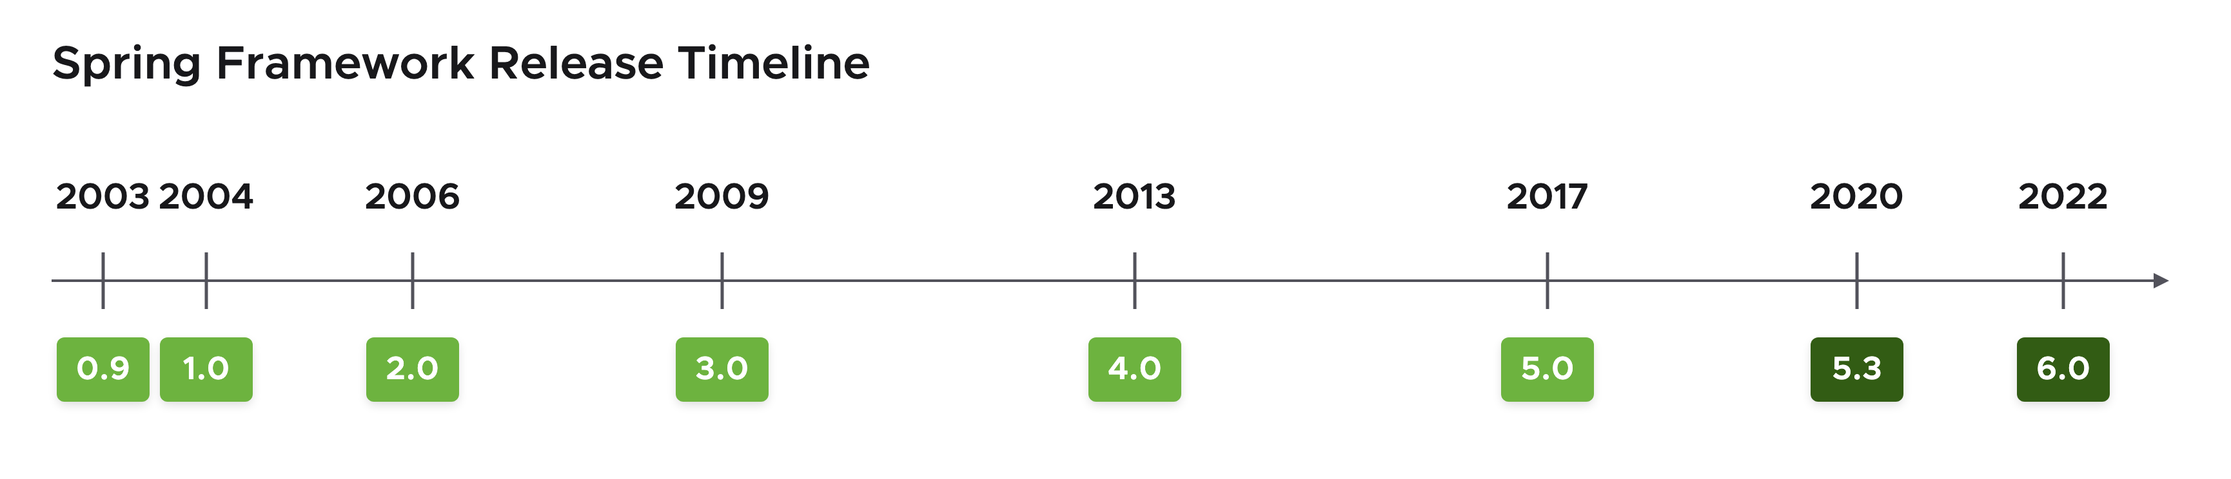
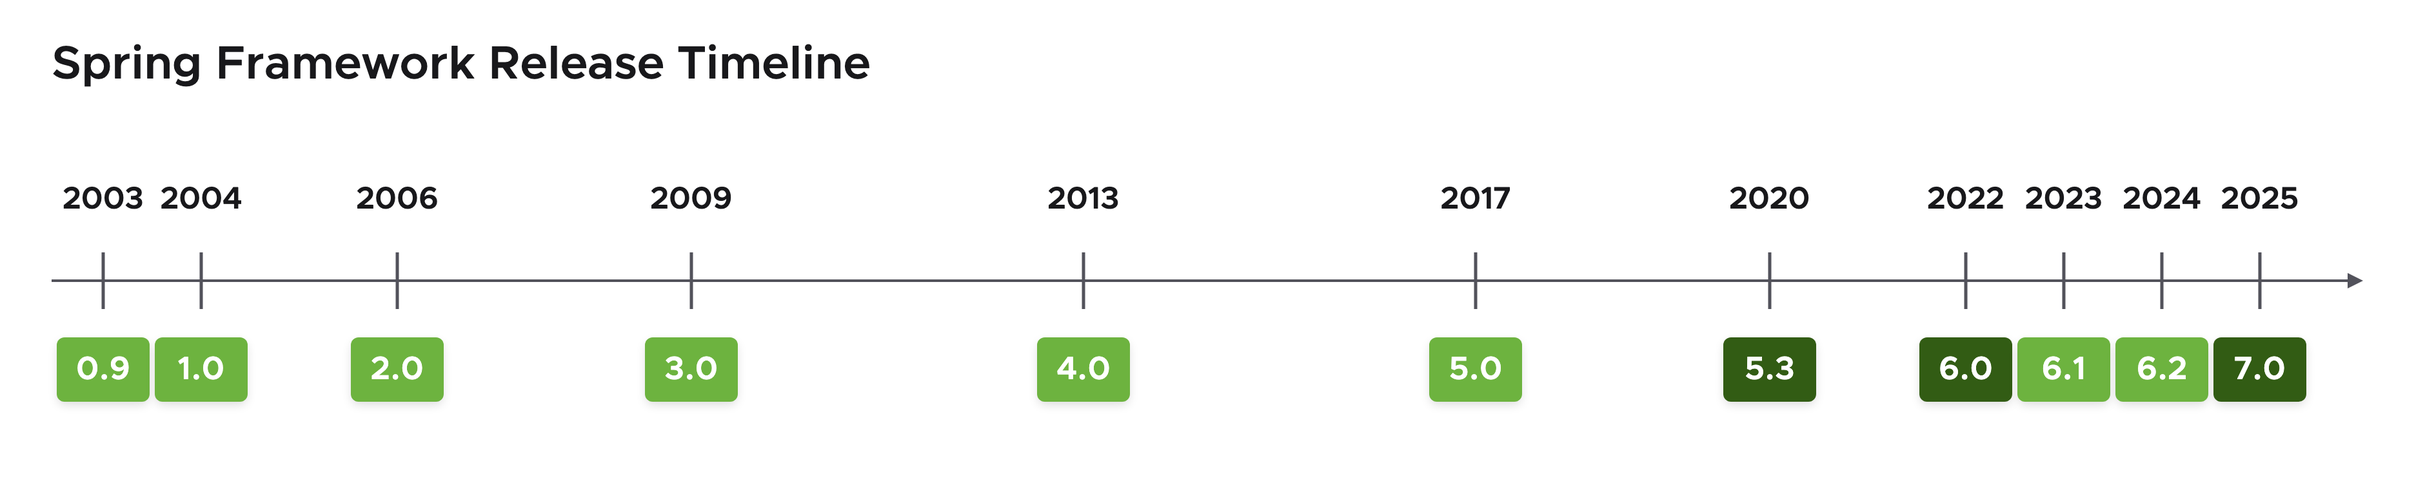
update

diff --git a/metadata/lms/08-testing/02-integration/content.md b/metadata/lms/08-testing/02-integration/content.md
@@ -26,9 +26,9 @@ In production, your application wires together `TransferServiceImpl` and `JpaAcc
 
 Spring ships a small testing framework called the **`TestContext` framework**, whose job is to bootstrap the application context for you.
 
-Without it, you'd be tempted to create the application context yourself inside a `@BeforeEach` method — but that's wasteful, since it means rebuilding the whole context before every single test method. The `TestContext` framework creates the application context for you instead, based on the **`@ContextConfiguration`** annotation, which you use to point at the configuration class (or classes) you want loaded. All of this comes from the `spring-test` module, so it needs to be on your test classpath (packaged as `spring-test.jar`). See the Spring Framework reference for [integration testing](https://docs.spring.io/spring/docs/current/spring-framework-reference/testing.html#integration-testing) and the [TestContext framework](https://docs.spring.io/spring/docs/current/spring-framework-reference/testing.html#testcontext-framework).
+Without it, you'd be tempted to create the application context yourself inside a `@BeforeEach` method — but that's wasteful, since it means rebuilding the whole context before every single test method. The `TestContext` framework creates the application context for you instead, based on the **`@ContextConfiguration`** annotation, which you use to point at the configuration class (or classes) you want loaded. All of this comes from the `spring-test` module, so it needs to be on your test classpath (packaged as `spring-test.jar`). See the Spring Framework reference for <a href="https://docs.spring.io/spring/docs/current/spring-framework-reference/testing.html#integration-testing" target="_blank" rel="noopener noreferrer">integration testing</a> and the <a href="https://docs.spring.io/spring/docs/current/spring-framework-reference/testing.html#testcontext-framework" target="_blank" rel="noopener noreferrer">TestContext framework</a>.
 
-## Hooking Spring into JUnit 5: `@ExtendWith`
+## Hooking Spring into JUnit 5: \@ExtendWith
 
 JUnit 4 had **runners**, but runners came with a real limitation: you couldn't combine more than one at a time, so if two different frameworks each needed their own runner, you were stuck. JUnit 5 replaces that mechanism with **extensions** — and extensions don't have that limitation; you can apply several at once.
 
@@ -54,7 +54,7 @@ public class TransferServiceTests {
 
 `@ExtendWith(SpringExtension.class)` tells JUnit 5 to run the test with Spring support; `@ContextConfiguration` tells Spring which configuration class (or classes) to use to build the application context. Once that context is bootstrapped, `@Autowired` at the field level works exactly as it would in application code — here, injecting the real `TransferService`, which internally delegates down to the repository and, in turn, to whatever `DataSource` the test configuration provides. There's no need for a `@BeforeEach` method to manually construct `TransferService` — the injected bean is ready to test against directly.
 
-## `@SpringJUnitConfig`: one annotation instead of two
+## \@SpringJUnitConfig: one annotation instead of two
 
 Because `@ExtendWith(SpringExtension.class)` and `@ContextConfiguration` are almost always used together, Spring provides a single **composed annotation** that combines both: **`@SpringJUnitConfig`**.
 
@@ -107,7 +107,7 @@ public class JdbcAccountRepoTest {
 
 The inner `TestConfig` class imports all of `SystemTestConfig`'s beans via `@Import`, but also defines its own `DataSource` bean. Since a bean defined this way takes precedence over one already present from the imported configuration, the `DataSource` gets overridden just for this particular test class — without affecting `SystemTestConfig` itself, or any other test that uses it.
 
-## Application context caching, and `@DirtiesContext`
+## Application context caching, and \@DirtiesContext
 
 One of the real benefits of `@SpringJUnitConfig` (or the extension plus `@ContextConfiguration` combination underneath it) is that the application context it creates gets **cached**. That means the context — and the beans injected from it — isn't rebuilt before every test method; injection effectively happens once, and the same cached context and bean instances are reused across every test method in the class. Given that most Spring beans are meant to be stateless, immutable singletons, this is normally exactly what you want: there's no need for a fresh context per test.
 
@@ -124,7 +124,7 @@ public void testTransferLimitExceeded() {
 
 Annotating a test method this way forces the cached context to be closed and destroyed once that test finishes, and the next test that needs a context gets a freshly built one instead of the cached one. Be careful reaching for this, though — creating a new application context takes real time, and using `@DirtiesContext` more than necessary will slow your test suite down.
 
-## Test-only properties with `@TestPropertySource`
+## Test-only properties with \@TestPropertySource
 
 Just as `@PropertySource` lets your application load property files into the environment, `@TestPropertySource` lets a test do the same thing — either by supplying key/value pairs directly, or by pointing at a properties file. If you don't specify a location, it defaults to looking for `[classname].properties`:
 

diff --git a/metadata/lms/05-annotations-component-scanning/01-configuration/content.md b/metadata/lms/05-annotations-component-scanning/01-configuration/content.md
@@ -28,7 +28,7 @@ The term "annotation-based configuration" can be a little misleading, since the 
 
 Annotating a class with `@Component` only works if Spring actually goes looking for it. That's the job of **component scanning**: on your configuration class, `@ComponentScan` tells Spring to scan a base package — and all of its sub-packages — for any class annotated with `@Component` (or a related stereotype annotation, covered in the "Stereotype and Meta Annotations" lesson). Every class it finds gets initialized and added to the application context automatically.
 
-## Dependency injection with `@Autowired`
+## Dependency injection with \@Autowired
 
 With Java configuration, dependency injection happens through method parameters on `@Bean` methods. With annotations, the equivalent tool is `@Autowired`, which works at three levels: constructor, method, and field.
 
@@ -59,7 +59,7 @@ In practice, you'll likely use both. It helps to know what each one actually giv
 
 The recommendation: prefer constructor injection, since it makes required dependencies explicit and immutable. But don't fight the design — if you're extending a class built around setter injection, use setter injection. Above all, be consistent across your project team.
 
-## Resolving ambiguity with `@Qualifier`
+## Resolving ambiguity with \@Qualifier
 
 Autowiring by type runs into trouble the moment two beans implement the same interface. Take a `TransferService` that depends on `AccountRepository`, where both a `JpaAccountRepository` and a `JdbcAccountRepository` are annotated `@Component` and present in the context. Spring can't tell which one you want — and at startup you'll get a `NoSuchBeanDefinitionException`, somewhat confusingly, since there isn't zero matching beans, there are two. The message will say Spring expected a single bean but found two.
 
@@ -99,11 +99,11 @@ If you don't explicitly name a component, Spring auto-generates one: the class n
 
 The broader recommendation, again, is to avoid needing named disambiguation in the first place — usually it's rare to have two beans of the same type in an `ApplicationContext`, and profiles are usually the better way to solve that problem than leaning on qualifiers everywhere.
 
-## Injecting configuration values with `@Value`
+## Injecting configuration values with \@Value
 
 Beyond wiring beans together, `@Autowired` combined with `@Value` lets you pull values out of the environment — properties, environment variables, and so on — instead of injecting a bean from the context. This works the same way at the constructor, method, or field level, though the field-level option is discouraged for the same reasons as field injection generally.
 
-## Delayed initialization with `@Lazy`
+## Delayed initialization with \@Lazy
 
 By default, every bean is created eagerly, right when the application context starts — deliberately, so misconfiguration surfaces immediately as a fail-fast startup error rather than a mysterious runtime failure later. Occasionally, though, a bean is expensive to initialize, or depends on something that isn't ready yet, and you'd rather defer its creation until the first time it's actually needed. `@Lazy` does exactly that.
 

diff --git a/metadata/lms/10-transactions/02-management/content.md b/metadata/lms/10-transactions/02-management/content.md
@@ -52,7 +52,7 @@ Note that this bean depends on a `DataSource` already being defined elsewhere in
 
 (The JTA equivalent looks similar in shape but does a JNDI lookup to obtain the `DataSource` from an application server, and constructs a `JtaTransactionManager` instead — again, not the focus here.)
 
-## Step 2: `@Transactional`
+## Step 2: \@Transactional
 
 With a transaction manager in the application context, the next step is marking which methods should actually run inside a transaction, using the `@Transactional` annotation:
 
@@ -100,7 +100,7 @@ Once a transaction is under way, Spring binds its transactional context to the *
 - `JdbcTemplate`, used inside an `@Transactional` method, automatically checks the thread-local for a current connection — if one exists, it reuses it and participates in the same transaction, rather than opening a new one. (Hibernate sessions and JTA work the same way for their respective technologies.)
 - You *can* access this manually via `DataSourceUtils.getConnection(dataSource)`, which returns the thread-bound connection if one exists, or falls back to getting one from the `DataSource` otherwise — but you'll rarely need to reach for this yourself, since Spring handles it for you underneath `@Transactional`.
 
-## Combining class-level and method-level `@Transactional`
+## Combining class-level and method-level \@Transactional
 
 `@Transactional` can be placed on an entire class (or interface, since Spring Framework 5), which makes every method in that class transactional and inherits whatever settings are defined at the class level:
 
@@ -135,7 +135,7 @@ public class RewardNetworkImpl implements RewardNetwork {
 
 Here, the class-level default gives every method a 60-second timeout. `updateConfirmation` overrides that specifically to 45 seconds, while `rewardAccountFor` keeps the class-level default of 60.
 
-## A common trap: two different `@Transactional` annotations
+## A common trap: two different \@Transactional annotations
 
 There are actually **two** `@Transactional` annotations available on the classpath: one in `jakarta.transaction` (the standard JTA version — `javax.transaction` on Spring Framework 5.x and earlier) and one in Spring's own package. If you import the standard JTA `@Transactional`, you'll find you can't override properties like propagation, since that version simply doesn't expose them. Always make sure you're importing **Spring's** `@Transactional` — this is called out specifically because it's a genuinely common mistake to import the wrong one, especially in lab exercises.
 

diff --git a/metadata/lms/08-testing/05-lab-demo/content.md b/metadata/lms/08-testing/05-lab-demo/content.md
@@ -11,7 +11,7 @@ This lesson walks through a hands-on lab that puts the "Configure Tests using Sp
 
 In every previous lab, the application context was created programmatically inside a `setUp` method. This lab (project 24) asks a simple question: is there a better way to do it? The answer is the Spring TestContext Framework already covered earlier in this module, now combined with profiles for a more dynamic test configuration. The lab is organized as a series of numbered to-dos, and this lesson follows that same order.
 
-## To-do 1: Replacing manual setup with `@SpringJUnitConfig`
+## To-do 1: Replacing manual setup with \@SpringJUnitConfig
 
 The starting test class has a `@BeforeEach` method that builds the application context and grabs a reference to the `RewardNetwork` bean, plus an `@AfterEach` method that closes the context afterward. The first to-do replaces all of that:
 
@@ -24,7 +24,7 @@ Running the test at this point is expected to fail, and it does: a red bar, caus
 
 The reason is straightforward: the application context is now being created automatically, but nothing is injecting `rewardNetwork` into the test. The fix is to annotate the field with `@Autowired`. Once that's in place and the test reruns, it passes — the context is created, `RewardNetwork` is retrieved from it, and it's made available inside the test automatically.
 
-## To-do 2: Annotating stub repositories with `@Repository`
+## To-do 2: Annotating stub repositories with \@Repository
 
 The project has stub repository classes (used as fakes) living in `rewards.internal`. This to-do annotates all three of them — `StubAccountRepository`, `StubRestaurantRepository`, and `StubRewardRepository` — with `@Repository`, without assigning any profile yet, simply to make them Spring-managed beans that are part of the application context.
 
@@ -39,7 +39,7 @@ expected single matching bean but found 2: stubAccountRepository, jdbcAccountRep
 
 Component scanning is now picking up *both* the existing JDBC repository implementations and the newly-annotated stub implementations. Both get registered in the application context, and when something needs an `AccountRepository` injected, Spring has no way to know which of the two beans to choose — an ambiguity error.
 
-## To-do 3: Disambiguating with `@Profile`
+## To-do 3: Disambiguating with \@Profile
 
 The fix is to put the JDBC and stub implementations into two different profiles, so only one set is active at a time:
 

diff --git a/metadata/lms/08-testing/03-profiles/content.md b/metadata/lms/08-testing/03-profiles/content.md
@@ -12,7 +12,7 @@ By the end of this lesson, you should be able to:
 
 Earlier in this course you saw how Spring profiles let you group beans so they can be enabled or disabled at runtime — useful for things like swapping a real database for a stub, depending on whether you're running in production or in a test. Normally you'd activate a profile by passing a system property at startup, but that technique doesn't translate well into a test environment, where there's no command line to pass properties to. This lesson introduces the annotation-based way of activating profiles specifically for tests, and pairs it with a second annotation for loading SQL scripts into a test database.
 
-## Activating profiles for a test: `@ActiveProfiles`
+## Activating profiles for a test: \@ActiveProfiles
 
 `@ActiveProfiles` is a new annotation, used in combination with `@SpringJUnitConfig` (or the underlying Spring extension you saw in the earlier testing lessons). It lets you define one or more profiles that should be active for a given test class.
 
@@ -64,7 +64,7 @@ public void successfulTransfer() {
 
 Annotating a test method with `@Sql` and pointing it at a script tells Spring to run that script against the data source before the annotated test method executes — a convenient way to load exactly the data a given test needs.
 
-## Using `@Sql` at the class level, and overriding it per test
+## Using \@Sql at the class level, and overriding it per test
 
 `@Sql` can also be placed on the class itself, in which case it applies to every test method in that class unless a specific method overrides it with its own `@Sql` annotation.
 
@@ -87,7 +87,7 @@ public class MainTests {
 
 In this example, `schema.sql` and `load-data.sql` run before every test in the class — except `transferError`, which defines its own pair of `@Sql` annotations instead. Notice that `@Sql` is a *repeatable* annotation: you can stack more than one on the same method. The second annotation on `transferError` also sets `executionPhase` to run its script *after* the test method — a handy way to clean up test data once a test finishes, rather than (or in addition to) setting it up beforehand.
 
-## `@Sql` options
+## \@Sql options
 
 `@Sql` has quite a few configuration options beyond just which script to run:
 

diff --git a/metadata/lms/02-overview/01-what-is-springframework/content.md b/metadata/lms/02-overview/01-what-is-springframework/content.md
@@ -17,9 +17,9 @@ This lesson stays at the conceptual level — no implementation details yet. Tho
 
 All of Spring's source and binary code is freely available, under an Apache 2 license:
 
-- Source code: `https://github.com/spring-projects/spring-framework`
-- Binaries: available at Maven Central
-- Documentation: `https://docs.spring.io/spring/docs/current/spring-framework-reference/htmlsingle`
+- Source code: <a href="https://github.com/spring-projects/spring-framework" target="_blank" rel="noopener noreferrer">https://github.com/spring-projects/spring-framework</a>
+- Binaries: available at <a href="https://central.sonatype.com/namespace/org.springframework" target="_blank" rel="noopener noreferrer">Maven Central</a>
+- Documentation: <a href="https://docs.spring.io/spring/docs/current/spring-framework-reference/htmlsingle" target="_blank" rel="noopener noreferrer">https://docs.spring.io/spring/docs/current/spring-framework-reference/htmlsingle</a>
 
 Being open source also means there's a large community constantly contributing to the framework. A quick practical note: the use of a transitive dependency management system (Maven, Gradle, or Ant/Ivy) is recommended for any Java application that pulls in Spring — you'll rely on this throughout the course to manage the framework's own dependencies for you.
 
@@ -53,7 +53,7 @@ Spring provides framework classes, interfaces, and annotations to simplify worki
 
 ## Where to find the rest of the portfolio
 
-As an open source project, the whole Spring portfolio lives at `github.com/spring-projects`. The Spring Framework you're learning here is just the core — beyond it you'll find sibling projects like Spring Data and Spring Security, all under an Apache 2 license and published to Maven Central. Each project in the portfolio has its own dedicated documentation.
+As an open source project, the whole Spring portfolio lives at <a href="https://github.com/spring-projects" target="_blank" rel="noopener noreferrer">github.com/spring-projects</a>. The Spring Framework you're learning here is just the core — beyond it you'll find sibling projects like Spring Data and Spring Security, all under an Apache 2 license and published to Maven Central. Each project in the portfolio has its own dedicated documentation.
 
 ## Recap
 

diff --git a/metadata/lms/07-aop/06-lab-demo/content.md b/metadata/lms/07-aop/06-lab-demo/content.md
@@ -69,7 +69,7 @@ With the wiring in place, the `LoggingAspectTest` (found under the test package,
 
 The next test calls a method on the reward network that, under the hood, calls two repository "find" methods: one to find an account by its credit card number, and one to find a restaurant by its merchant number. Since the logging aspect matches both, running this test should produce not just a green bar, but **two matching lines** in the console — one for each find call. Running it confirms both: the test passes, and the last two lines in the console are exactly the ones logged by the logging aspect.
 
-## To-do 7: Add a second advice — this time, `@Around`
+## To-do 7: Add a second advice — this time, \@Around
 
 The second requirement is different in kind: instead of logging before a method runs, it needs to **time** how long each repository "update" method takes. That means running code both before and after the target — which calls for around advice rather than before advice.
 
@@ -103,7 +103,7 @@ Calling `repositoryMethod.proceed()` inside the `try` block is what actually del
 
 With two aspects now in play, the test's expected number of console matches changes from two to four: two lines from the "find" logging advice, and two more from the "update" timing advice. Looking again at the reward network method under test, it calls two find methods *and* two update methods, so four matching log lines are expected in total. Running the test produces the green bar plus all four expected lines — two from the before advice, two from the around advice.
 
-## To-do 10 (optional): Add exception logging with `@AfterThrowing`
+## To-do 10 (optional): Add exception logging with \@AfterThrowing
 
 The optional section adds a third advice, this time to log exceptions thrown by repository methods. Since the goal is specifically to react to a thrown exception — not to run before or after regardless of outcome — this calls for `@AfterThrowing`.
 

diff --git a/metadata/lms/07-aop/05-lab/content.md b/metadata/lms/07-aop/05-lab/content.md
@@ -44,7 +44,7 @@ If not,
 assuming you already have JDK 11 or 17 installed and Java IDE,
 you will need to do the following:
 
-1.  Download the **[lab codebase zip file](https://github.com/spring-academy/spring-pro-code/releases/download/core-spring-release-1.18.1/core-spring-labfiles.zip)**.
+1.  Download the **<a href="https://github.com/spring-academy/spring-pro-code/releases/download/core-spring-release-1.18.1/core-spring-labfiles.zip" target="_blank" rel="noopener noreferrer">lab codebase zip file</a>**.
 
 2.  Once you have downloaded the file, unzip it under
     a directory of your choice.
@@ -89,7 +89,7 @@ lab instructions by TODO number if you need more help.
 
 ## Instructions
 
-### Implement a Logging @Before Aspect
+### Implement a Logging \@Before Aspect
 
 #### Check Console Output
 
@@ -144,7 +144,7 @@ You’ll use the annotated `@Aspect` definition style.
   Component scanning can be very effective for aspects, so mark this
   class with the `@Component` annotation.
 
-- Optionally place an @Autowired annotation on the constructor.
+- Optionally place an `@Autowired` annotation on the constructor.
   (It is optional since there is only a single constructor in the class.)
 
   You will see where this dependency comes from and turn on the actual
@@ -234,7 +234,7 @@ Spring configuration needed to weave it into your application.
   suggested by these notes (just `find*` methods), try to make it more
   specific to match `find*` methods on `*Repository` classes.
 
-### Implement an @Around Performance Monitor Aspect
+### Implement an \@Around Performance Monitor Aspect
 
 For the second non-functional requirement implemented in this lab, you
 will build upon the `LoggingAspect`, and adding behavior to log timing

diff --git a/metadata/lms/05-annotations-component-scanning/03-bean-construction-and-destruction/content.md b/metadata/lms/05-annotations-component-scanning/03-bean-construction-and-destruction/content.md
@@ -17,7 +17,7 @@ Worth noting: these are not Spring-specific annotations. They're defined by **JS
 
 > **Package name note:** starting with Spring Framework 6 / Spring Boot 3 (the `jakarta.*` namespace migration), and continuing through the current Spring Framework 7 / Spring Boot 4 generation (now on Jakarta EE 11), these annotations live in `jakarta.annotation`. Older Spring versions (Spring Framework 5.x and earlier, matching this course) used `javax.annotation` instead — the annotations and their behavior are identical, only the package name changed.
 
-## `@PostConstruct`: running logic after injection
+## \@PostConstruct: running logic after injection
 
 `@PostConstruct` runs during the initialization phase, specifically **right after all dependency injection has completed** for that bean.
 
@@ -44,7 +44,7 @@ public class JdbcAccountRepository {
 
 If you tried to run this cache-population logic directly in the constructor, it would be too early — the constructor runs before setter injection happens, so `dataSource` would still be `null`, and you'd get a `NullPointerException`. `@PostConstruct` exists precisely to solve that ordering problem: the full sequence Spring guarantees is **constructor injection, then setter injection, then any `@PostConstruct` methods**. By the time `populateCache()` runs, every dependency — regardless of which injection style supplied it — is already in place.
 
-## `@PreDestroy`: cleaning up before shutdown
+## \@PreDestroy: cleaning up before shutdown
 
 `@PreDestroy` is the mirror image: it runs during the destruction phase, when the application context is closed.
 

diff --git a/metadata/lms/08-testing/04-lab/content.md b/metadata/lms/08-testing/04-lab/content.md
@@ -39,7 +39,7 @@ If not,
 assuming you already have JDK 11 or 17 installed and Java IDE,
 you will need to do the following:
 
-1.  Download the **[lab codebase zip file](https://github.com/spring-academy/spring-pro-code/releases/download/core-spring-release-1.18.1/core-spring-labfiles.zip)**.
+1.  Download the **<a href="https://github.com/spring-academy/spring-pro-code/releases/download/core-spring-release-1.18.1/core-spring-labfiles.zip" target="_blank" rel="noopener noreferrer">lab codebase zip file</a>**.
 
 2.  Once you have downloaded the file, unzip it under
     a directory of your choice.
@@ -148,7 +148,7 @@ implementations - either Stubs or using JDBC.
   put all the repositories in this project into their correct
   profile - there are 6 repository classes to annotate in total.
 
-- Annotate the `RewardNetworkTests` class with @ActiveProfiles
+- Annotate the `RewardNetworkTests` class with `@ActiveProfiles`
   to make "stub" the active profile.
 
 - Rerun the test - it should work now.
@@ -231,7 +231,7 @@ resource (_jndi_ profile).
 **TODO-08**: Use inner class configuration
 
 - When no class is specified, Spring’s test framework will
-  look for an inner static class marked with @Configuration.
+  look for an inner static class marked with `@Configuration`.
   Since the `TestInfrastructureConfig` class is so small anyway,
   copy the entire class definition, including annotations, to an
   inner static class within the test class.

diff --git a/metadata/lms/02-overview/07-packaging-and-integration-testing/content.md b/metadata/lms/02-overview/07-packaging-and-integration-testing/content.md
@@ -53,7 +53,7 @@ Running `mvn package` and looking in the `target` directory shows the size diffe
 
 You'll use the larger, self-contained JAR to actually run the application with `java -jar`.
 
-## Integration testing with `@SpringBootTest`
+## Integration testing with \@SpringBootTest
 
 Earlier in the course you saw how to bootstrap an application context in a test environment using `@SpringJUnitConfig`. That annotation picks a set of configuration classes and builds a context from them — but it doesn't apply any auto-configuration.
 
@@ -78,7 +78,7 @@ public class TransferServiceTests {
 
 `@SpringBootTest`'s `classes` attribute points at your entry point — here, a class annotated with `@SpringBootApplication`. Because `@SpringBootApplication` enables auto-configuration, the application context built for this test is created the *same way* a real Spring Boot application would build it: the same auto-configuration, the same `application.properties`, everything. In terms of how you actually write the test, nothing else changes — you autowire beans from the context and use them exactly as before. The only thing that changed is the annotation controlling how that context gets built.
 
-## Letting `@SpringBootTest` find its own configuration
+## Letting \@SpringBootTest find its own configuration
 
 You can safely omit `classes` entirely from `@SpringBootTest`, because it's able to auto-discover your entry point:
 

diff --git a/metadata/lms/05-annotations-component-scanning/06-annotations-component-scan-lab-demo/content.md b/metadata/lms/05-annotations-component-scanning/06-annotations-component-scan-lab-demo/content.md
@@ -49,11 +49,11 @@ The lab then deliberately changes tack on `JdbcRestaurantRepository`: instead of
 
 Re-running the test at this point fails with a `NullPointerException` — the cache was never populated, because the code that used to do it lived in a constructor that Spring no longer calls.
 
-## To-do 9: Fix it with `@PostConstruct`
+## To-do 9: Fix it with \@PostConstruct
 
 The fix is exactly the lifecycle annotation from the "Adding Startup and Shutdown Behaviors" lesson: annotate `populateRestaurantCache()` with `@PostConstruct`. Since `@PostConstruct` methods run only after all dependency injection (constructor and setter) has completed, the `DataSource` is guaranteed to already be set by the time the cache gets populated. Re-running the test produces a green bar again — proof that `@PostConstruct` fired at exactly the right moment.
 
-## To-dos 10–11: Clear the cache with `@PreDestroy`
+## To-dos 10–11: Clear the cache with \@PreDestroy
 
 The mirror-image problem: `clearRestaurantCache()` needs to run when the application shuts down. A `System.out.println` gets added inside that method first, purely so its execution is visible in the console — then the method is annotated `@PreDestroy`. Re-running the test and inspecting the console confirms the cache-clearing message appears as the very last line of output, proving the destroy callback fired correctly when the context closed.
 
